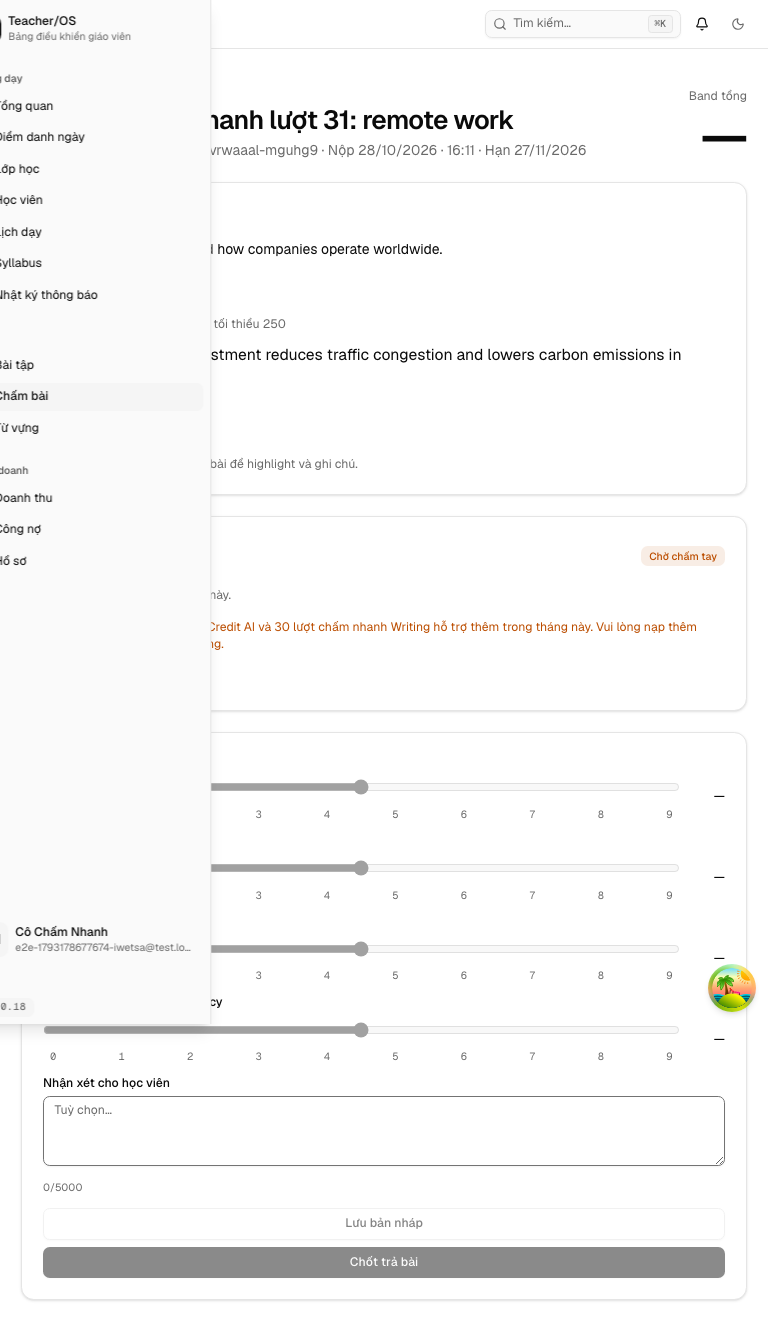
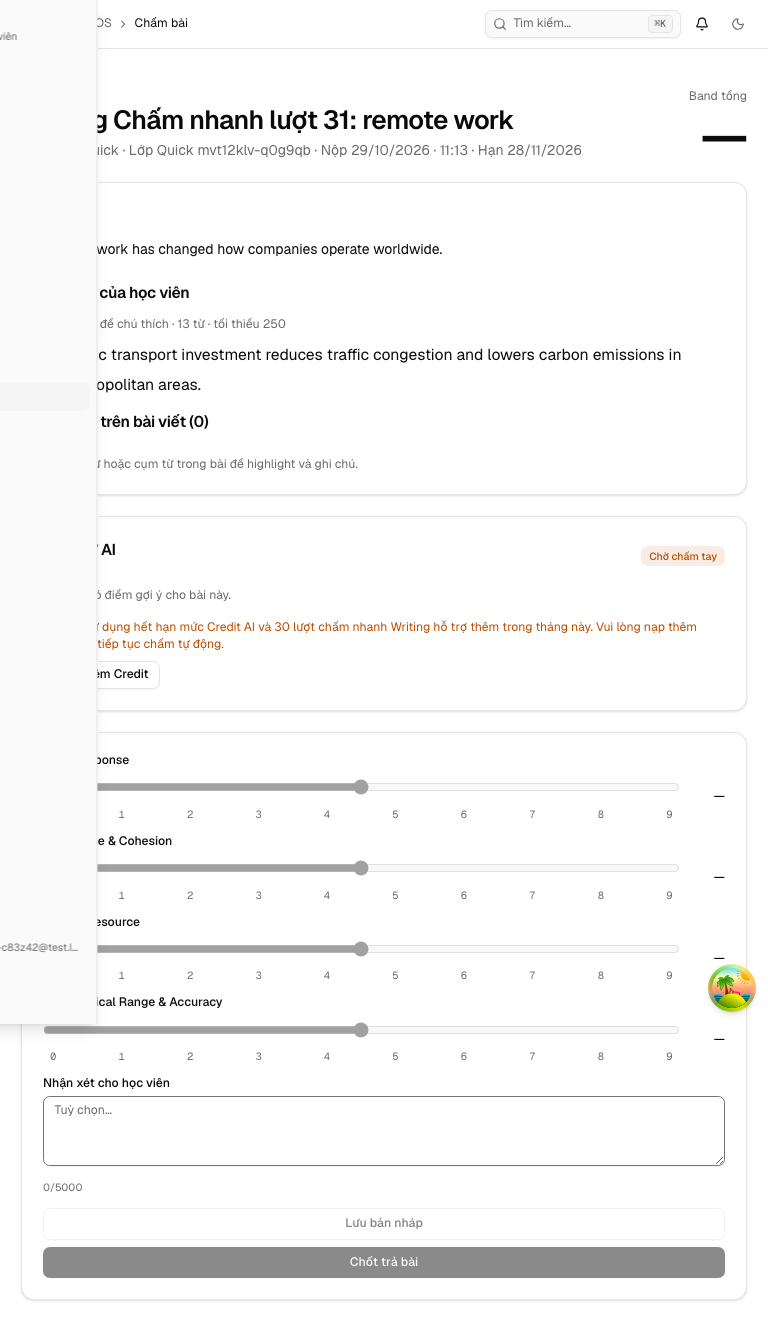
feat(server,web): gate AI import and draft grading behind AI_ENABLED flag (#494)

diff --git a/apps/server/src/index.ts b/apps/server/src/index.ts
@@ -8,12 +8,11 @@ import {
 import { createDb } from "@teacher-os/db";
 import { env } from "@teacher-os/env/server";
 import { buildApp, type Db, type MediaStore } from "./app";
-import { createWorkersAiGrader } from "./lib/ai-grading/workers-ai-grader";
+import { createAiProviders } from "./lib/ai-gate";
 import {
 	type BankHubContext,
 	createBankHubContext,
 } from "./lib/bank-hub/bank-hub-client";
-import { createWorkersAiExtractor } from "./lib/exam-import/extractor";
 import { createR2MediaStore } from "./lib/r2-media-store";
 import { getSessionUser } from "./session";
 
@@ -128,14 +127,10 @@ export default buildApp({
 		examImportStore ??= createR2MediaStore(env.MEDIA);
 		return examImportStore;
 	},
-	// TOS-24 (#470): extractor Workers AI từ binding `AI` (alchemy biến
-	// `Cloudflare.Workers.AI()` thành handle `Ai`). Binding thiếu → undefined
-	// → route trả 503 EXAM_IMPORT_DISABLED (fail-closed như getMediaStore).
-	getExamExtractor: () =>
-		env.AI ? createWorkersAiExtractor(env.AI) : undefined,
-	// TOS-30 (#478): grader chấm nháp AI từ cùng binding `AI`. Thiếu →
-	// draft rơi `AI_GRADING_DISABLED` + hoàn Credit (fail-closed).
-	getAiGrader: () => (env.AI ? createWorkersAiGrader(env.AI) : undefined),
+	// Extractor và grader Workers AI chỉ có khi AI_ENABLED === "true" (prod mặc
+	// định tắt) và binding AI tồn tại. Ngược lại route trả 503
+	// EXAM_IMPORT_DISABLED, draft rơi AI_GRADING_DISABLED + hoàn Credit.
+	...createAiProviders(env),
 	// Plan #413: cổng admin — allowlist email + origin console cho CSRF.
 	adminEmails: parseCORSOrigins(env.ADMIN_EMAILS),
 	adminOrigins: parseCORSOrigins(env.ADMIN_ORIGINS),

diff --git a/packages/infra/alchemy.run.ts b/packages/infra/alchemy.run.ts
@@ -115,6 +115,13 @@ if (topology && adminOriginsEnv !== undefined) {
 	}
 }
 
+// Cờ duy nhất cho tính năng AI (nhập đề, chấm nháp): mặc định tắt, chỉ chuỗi
+// "true" mới bật. Cùng một giá trị đi vào server (AI_ENABLED) và build web
+// (VITE_AI_ENABLED) để hai phía không lệch nhau.
+const aiEnabledConfig = Config.string("AI_ENABLED").pipe(
+	Config.withDefault("false"),
+);
+
 const adminOriginsConfig = topology
 	? Config.string("ADMIN_ORIGINS").pipe(
 			Config.withDefault(topology.adminOrigin),
@@ -167,6 +174,7 @@ export const server = Cloudflare.Worker("server", {
 		// cấu hình thêm; dev local đi qua proxy Cloudflare của alchemy, e2e
 		// không dùng workerd nên inject fake extractor qua boot.ts.
 		AI: Cloudflare.Workers.AI(),
+		AI_ENABLED: aiEnabledConfig,
 		CORS_ORIGIN: corsOriginConfig,
 		STUDENT_ORIGINS: studentOriginsConfig,
 		ADMIN_ORIGINS: adminOriginsConfig,
@@ -234,6 +242,7 @@ export default Alchemy.Stack(
 	},
 	Effect.gen(function* () {
 		const serverWorker = yield* server;
+		const aiEnabled = yield* aiEnabledConfig;
 		const webWorker = yield* Cloudflare.Website.Vite("web", {
 			rootDir: "../../apps/web",
 			main: "src/worker.ts",
@@ -252,6 +261,7 @@ export default Alchemy.Stack(
 				VITE_SERVER_URL: topology
 					? topology.apiOrigin
 					: serverWorker.url.as<string>(),
+				VITE_AI_ENABLED: aiEnabled,
 			},
 			dev: {
 				port: 8001,

diff --git a/apps/server/src/lib/ai-gate.test.ts b/apps/server/src/lib/ai-gate.test.ts
@@ -1,0 +1,30 @@
+import { describe, expect, test } from "vitest";
+import { createAiProviders } from "./ai-gate";
+import type { WorkersAiBinding } from "./exam-import/extractor";
+
+const binding: WorkersAiBinding = {
+	toMarkdown: () => Promise.resolve(""),
+	run: () => Promise.resolve({}),
+};
+
+describe("createAiProviders", () => {
+	test("cờ vắng mặt hoặc khác 'true' thì không có extractor/grader dù binding AI tồn tại", () => {
+		for (const AI_ENABLED of [undefined, "", "false", "TRUE", "1"]) {
+			const providers = createAiProviders({ AI: binding, AI_ENABLED });
+			expect(providers.getExamExtractor()).toBeUndefined();
+			expect(providers.getAiGrader()).toBeUndefined();
+		}
+	});
+
+	test("cờ 'true' cùng binding AI thì cấp extractor và grader", () => {
+		const providers = createAiProviders({ AI: binding, AI_ENABLED: "true" });
+		expect(providers.getExamExtractor()?.extract).toBeTypeOf("function");
+		expect(providers.getAiGrader()?.grade).toBeTypeOf("function");
+	});
+
+	test("cờ 'true' nhưng thiếu binding AI vẫn fail-closed", () => {
+		const providers = createAiProviders({ AI_ENABLED: "true" });
+		expect(providers.getExamExtractor()).toBeUndefined();
+		expect(providers.getAiGrader()).toBeUndefined();
+	});
+});

diff --git a/apps/web/src/routes/_auth/assignments/tests/import.tsx b/apps/web/src/routes/_auth/assignments/tests/import.tsx
@@ -1,4 +1,9 @@
-import { createFileRoute, Link, useNavigate } from "@tanstack/react-router";
+import {
+	createFileRoute,
+	Link,
+	redirect,
+	useNavigate,
+} from "@tanstack/react-router";
 import {
 	type CreditWallet,
 	EXAM_IMPORT_ERROR_CODES,
@@ -20,6 +25,7 @@ import { PageHead } from "@/components/ui/page-head";
 import { Progress } from "@/components/ui/progress";
 import { Tabs } from "@/components/ui/tabs";
 import { useData } from "@/lib/data-store";
+import { AI_ENABLED } from "@/lib/features";
 import { sha256Hex } from "@/lib/file-fingerprint";
 import {
 	createExamImport,
@@ -33,6 +39,11 @@ import {
 	saveExamImportDraft,
 } from "@/lib/repos/exam-imports";
 export const Route = createFileRoute("/_auth/assignments/tests/import")({
+	beforeLoad: () => {
+		if (!AI_ENABLED) {
+			throw redirect({ to: "/assignments/tests/new" });
+		}
+	},
 	validateSearch: (search: Record<string, unknown>): { job?: string } => {
 		const job = search.job;
 		return typeof job === "string" && job.length > 0 ? { job } : {};

diff --git a/apps/web/src/routes/_auth/grading/index.tsx b/apps/web/src/routes/_auth/grading/index.tsx
@@ -26,6 +26,7 @@ import { inputCls } from "@/components/ui/field";
 import { PageHead } from "@/components/ui/page-head";
 import { Tag } from "@/components/ui/tag";
 import { cn } from "@/lib/cn";
+import { AI_ENABLED } from "@/lib/features";
 import { initialsFromName } from "@/lib/initials";
 import { isHttpError } from "@/lib/kernel-load-state";
 import { reauth } from "@/lib/reauth";
@@ -534,11 +535,12 @@ export function GradingQueueRoute() {
 												) : (
 													<StatusTag tone="warn">Chờ chấm</StatusTag>
 												)}
-												{item.aiStatus !== null &&
+												{AI_ENABLED &&
+													item.aiStatus !== null &&
 													item.aiStatus !== undefined && (
 														<AiDraftStatusBadge status={item.aiStatus} />
 													)}
-												{item.aiGradingMode === "quick" && (
+												{AI_ENABLED && item.aiGradingMode === "quick" && (
 													<AiQuickGradeBadge />
 												)}
 											</div>,

diff --git a/apps/server/src/lib/ai-gate.ts b/apps/server/src/lib/ai-gate.ts
@@ -1,0 +1,24 @@
+import type { AiGrader } from "./ai-grading/grader";
+import { createWorkersAiGrader } from "./ai-grading/workers-ai-grader";
+import {
+	createWorkersAiExtractor,
+	type ExamExtractor,
+	type WorkersAiBinding,
+} from "./exam-import/extractor";
+
+export interface AiGateEnv {
+	AI?: WorkersAiBinding;
+	AI_ENABLED?: string;
+}
+
+export function createAiProviders(env: AiGateEnv): {
+	getExamExtractor(): ExamExtractor | undefined;
+	getAiGrader(): AiGrader | undefined;
+} {
+	const binding = env.AI_ENABLED === "true" ? env.AI : undefined;
+	return {
+		getExamExtractor: () =>
+			binding ? createWorkersAiExtractor(binding) : undefined,
+		getAiGrader: () => (binding ? createWorkersAiGrader(binding) : undefined),
+	};
+}

diff --git a/apps/web/src/routes/_auth/grading/$attemptId.tsx b/apps/web/src/routes/_auth/grading/$attemptId.tsx
@@ -20,6 +20,7 @@ import { Card } from "@/components/ui/card";
 import { Modal } from "@/components/ui/modal";
 import { PageHead } from "@/components/ui/page-head";
 import { SectionLabel } from "@/components/ui/section-label";
+import { AI_ENABLED } from "@/lib/features";
 import { isHttpError } from "@/lib/kernel-load-state";
 import { reauth } from "@/lib/reauth";
 import {
@@ -381,7 +382,7 @@ export function GradingRoute() {
 					/>
 				</Card>
 				<div className="flex flex-col gap-6">
-					{draft !== null && (
+					{AI_ENABLED && draft !== null && (
 						<AiDraftPanel
 							draft={draft}
 							skill={data.skill}

diff --git a/apps/web/src/components/exam-import/import-with-ai-button.test.tsx b/apps/web/src/components/exam-import/import-with-ai-button.test.tsx
@@ -1,0 +1,22 @@
+import { describe, expect, test, vi } from "vitest";
+
+const features = vi.hoisted(() => ({ AI_ENABLED: false }));
+vi.mock("@/lib/features", () => ({
+	get AI_ENABLED() {
+		return features.AI_ENABLED;
+	},
+}));
+
+import { ImportWithAiButton } from "./import-with-ai-button";
+
+describe("ImportWithAiButton", () => {
+	test("không render khi cờ AI tắt", () => {
+		features.AI_ENABLED = false;
+		expect(ImportWithAiButton()).toBeNull();
+	});
+
+	test("render nút khi cờ AI bật", () => {
+		features.AI_ENABLED = true;
+		expect(ImportWithAiButton()).not.toBeNull();
+	});
+});

diff --git a/apps/web/src/components/exam-import/import-with-ai-button.tsx b/apps/web/src/components/exam-import/import-with-ai-button.tsx
@@ -1,12 +1,14 @@
 import { Link } from "@tanstack/react-router";
 import { CREDIT_COSTS } from "@teacher-os/api/contracts";
 import { buttonVariants } from "@/components/ui/button";
+import { AI_ENABLED } from "@/lib/features";
 
 /**
  * Nút dẫn tới màn Nhập đề AI — đặt trên PageHead của route "Full test mới"
  * (tests/new.tsx). Định nghĩa tại đây để tránh route file import chéo nhau.
  */
 export function ImportWithAiButton() {
+	if (!AI_ENABLED) return null;
 	return (
 		<Link
 			to="/assignments/tests/import"

diff --git a/apps/web/src/lib/features.ts b/apps/web/src/lib/features.ts
@@ -1,5 +1,10 @@
+import { env } from "@teacher-os/env/web";
+
 /**
  * Static feature flags for deferred feature clusters.
  * Flip a constant to re-enable a hidden cluster; no runtime toggle needed.
  */
 export const PARENT_REPORTS_ENABLED = false;
+
+/** Cùng cờ với `AI_ENABLED` phía server; tắt thì ẩn mọi điểm vào AI. */
+export const AI_ENABLED = env.VITE_AI_ENABLED === "true";

diff --git a/apps/e2e/playwright.config.ts b/apps/e2e/playwright.config.ts
@@ -70,6 +70,7 @@ export default defineConfig({
 			url: webSvc.pollUrl,
 			env: {
 				VITE_SERVER_URL: `http://localhost:${apiPort}`,
+				VITE_AI_ENABLED: "true",
 				E2E_API_PORT: String(apiPort),
 				E2E_WEB_PORT: String(webPort),
 			},

diff --git a/packages/env/src/web.ts b/packages/env/src/web.ts
@@ -5,6 +5,7 @@ export const env = createEnv({
 	clientPrefix: "VITE_",
 	client: {
 		VITE_SERVER_URL: z.url(),
+		VITE_AI_ENABLED: z.string().optional(),
 	},
 	runtimeEnv: (import.meta as any).env,
 	emptyStringAsUndefined: true,
